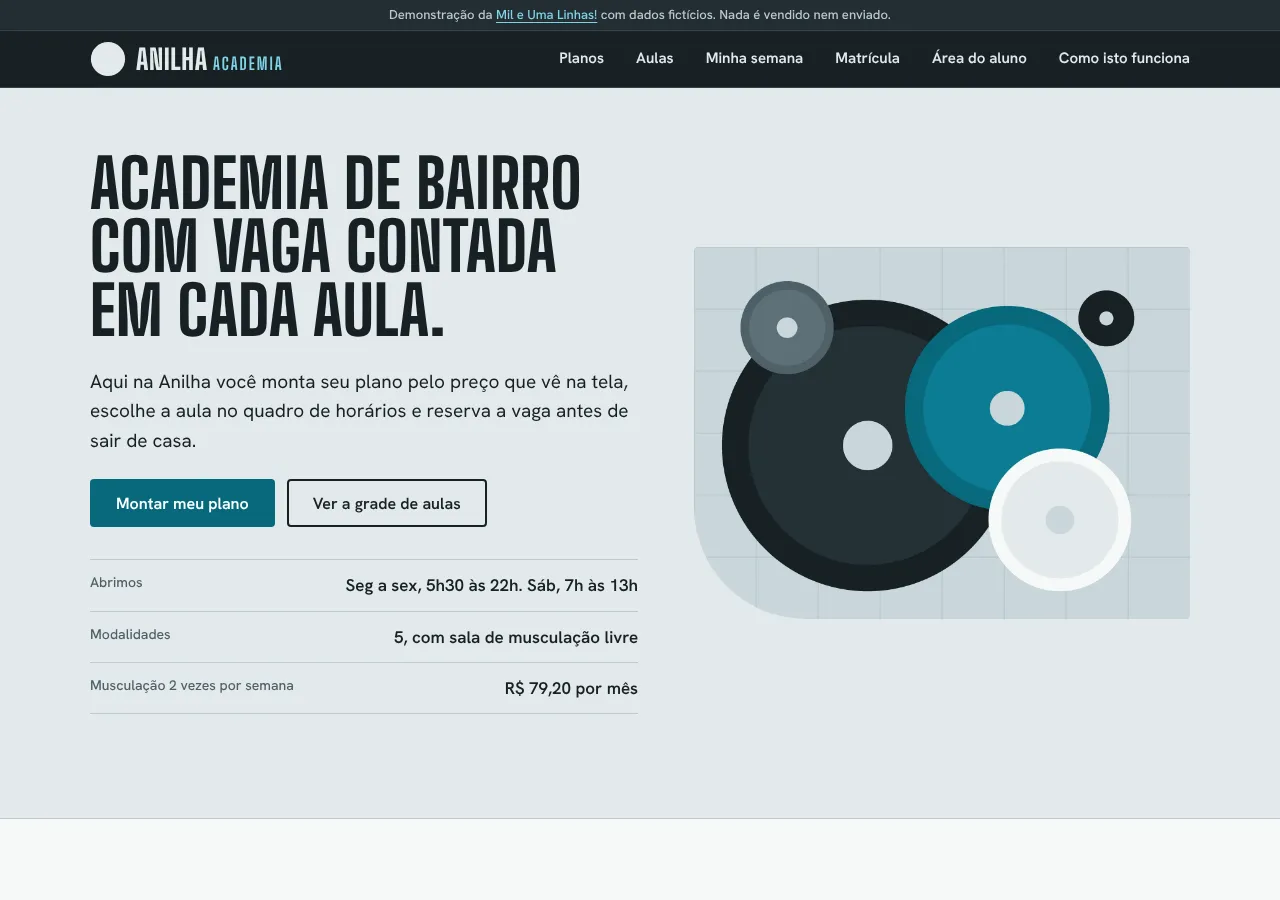
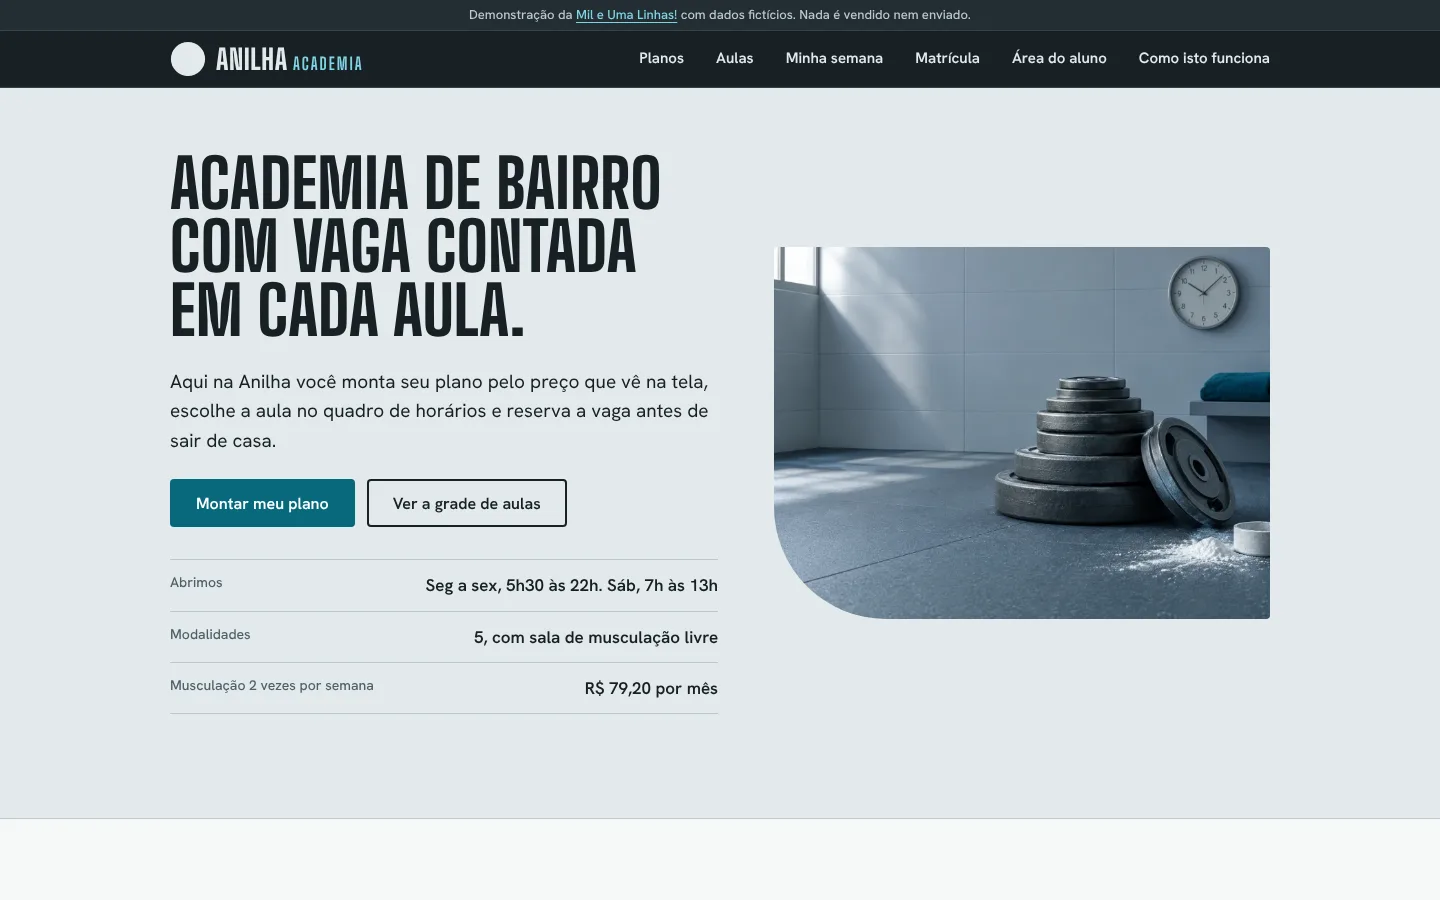
Troca o hero por foto gerada no Canva
Substitui img/hero.webp, antes uma composicao provisoria feita com
Pillow, por uma foto gerada por IA no Canva a partir do prompt da secao
"Foto do hero" de docs/identidade.md. Ajusta largura, altura e texto
alternativo da imagem no index.html, o teste de largura em
tests/site.cjs, o README e a documentacao, e refaz as capturas
docs/capa-desktop.webp e docs/capa-celular.webp. Testes em 1280x900,
iPhone 13 e 320px passando.

Claude-Session: https://claude.ai/code/session_015DVsuVad392kn1wvAjF541

diff --git a/index.html b/index.html
@@ -59,7 +59,7 @@
       </dl>
     </div>
     <figure class="hero-moldura">
-      <img class="hero-foto" src="img/hero.webp" width="1600" height="1200" alt="Composição de anilhas de ferro de tamanhos diferentes sobre o piso azulado de uma academia, em tons de cinza, preto e turquesa." fetchpriority="high">
+      <img class="hero-foto" src="img/hero.webp" width="1440" height="1080" alt="Pilha de anilhas de ferro e uma anilha encostada, sobre piso de borracha, com um relógio de parede e giz em pó ao fundo." fetchpriority="high">
     </figure>
   </div>
 </section>

diff --git a/README.md b/README.md
@@ -55,7 +55,7 @@ A página carrega uma vez e faz tudo sozinha, sem falar com nenhum servidor. O p
 - CSP restritiva em todas as páginas (`default-src 'self'`, sem inline, sem conexões).
 - Acessibilidade: contraste AA, foco visível, teclado, `lang="pt-BR"`, avisos com `aria-live`, respeita `prefers-reduced-motion`.
 - `localStorage`: reservas, presenças e resumo do plano. A matrícula não é guardada.
-- A foto do hero (`img/hero.webp`, proporção 4:3) é provisória: uma composição de anilhas feita com Pillow. O prompt para a foto final está em `docs/identidade.md`.
+- A foto do hero (`img/hero.webp`, proporção 4:3) é uma foto gerada por IA no Canva (1440x1080), feita a partir do prompt de `docs/identidade.md`.
 
 ## Como rodar
 
